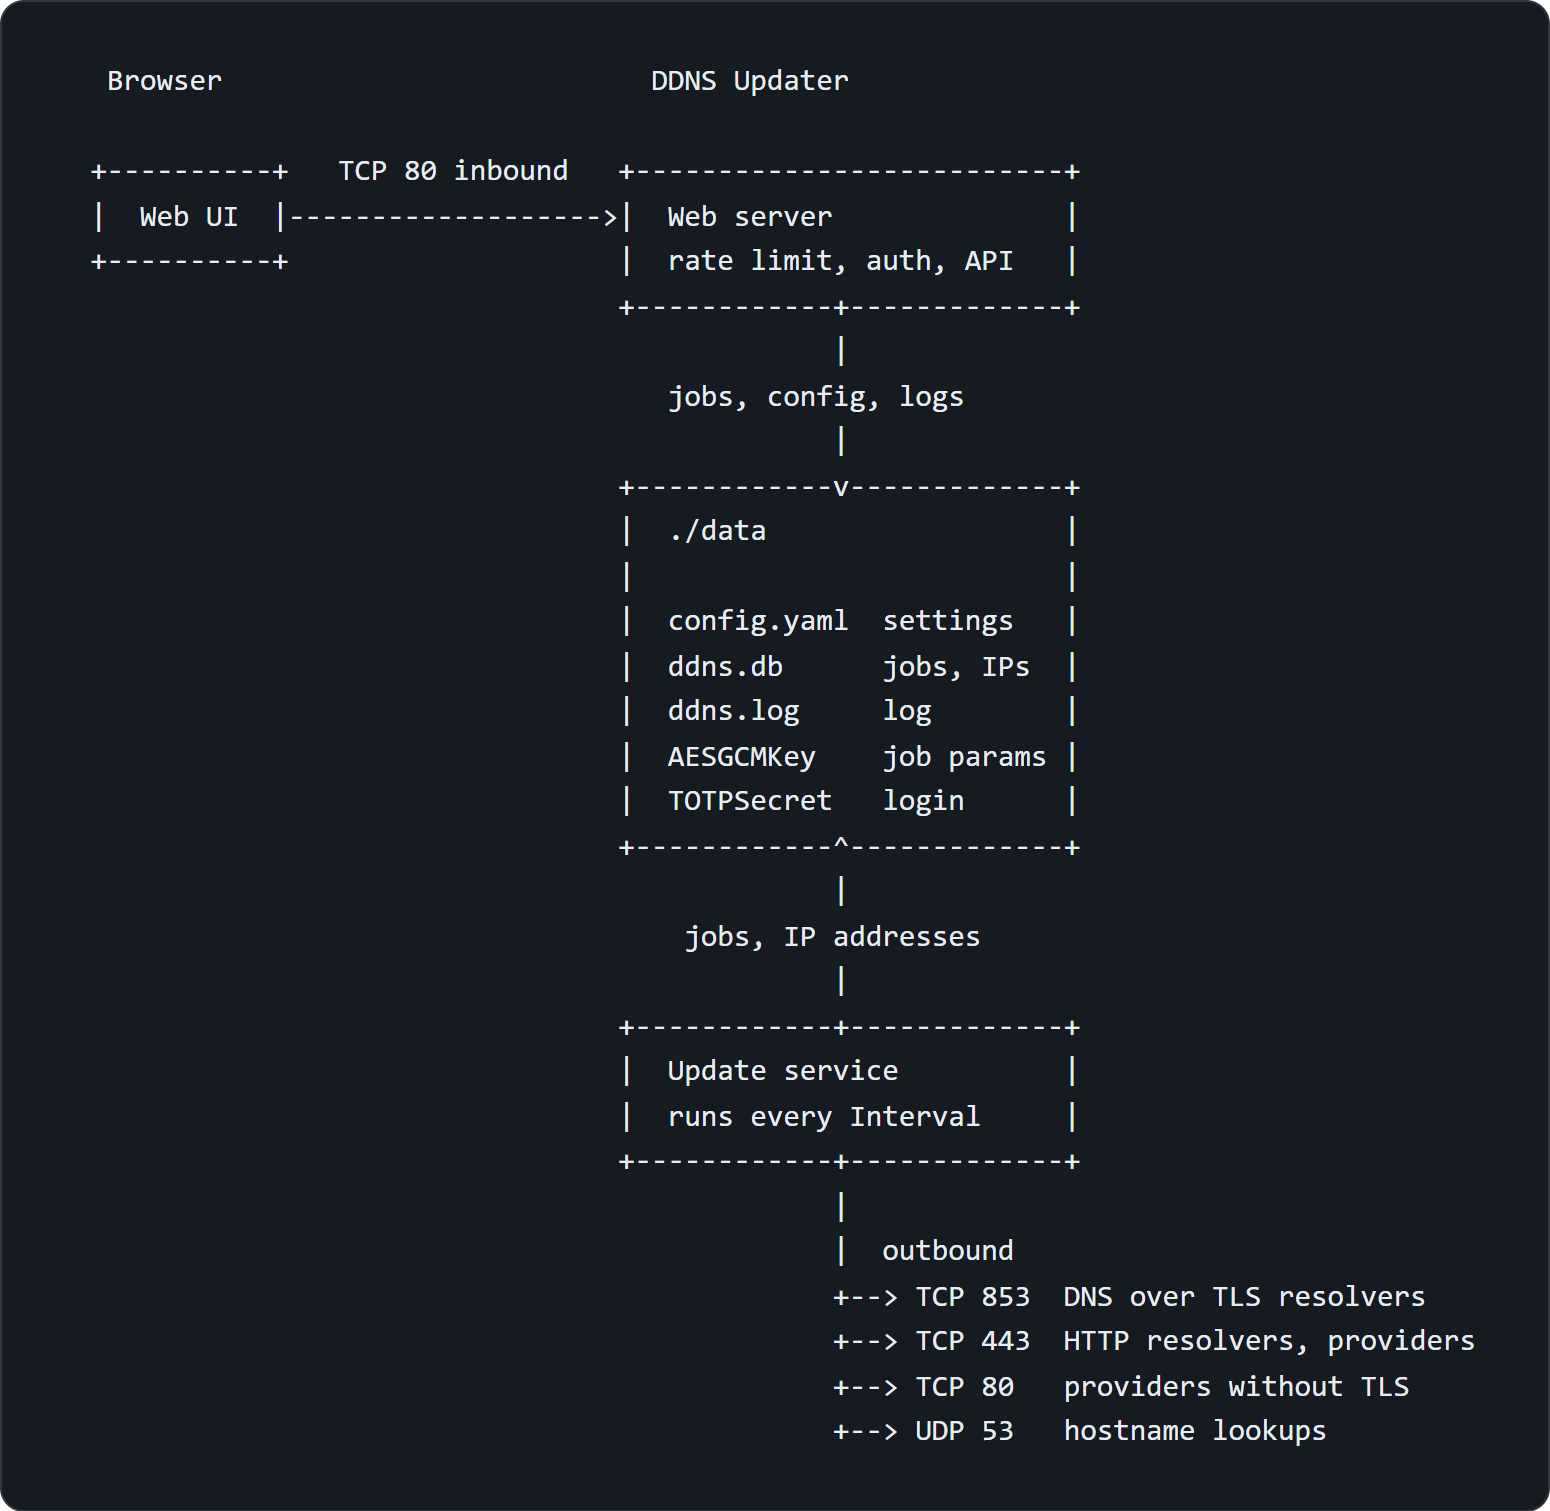
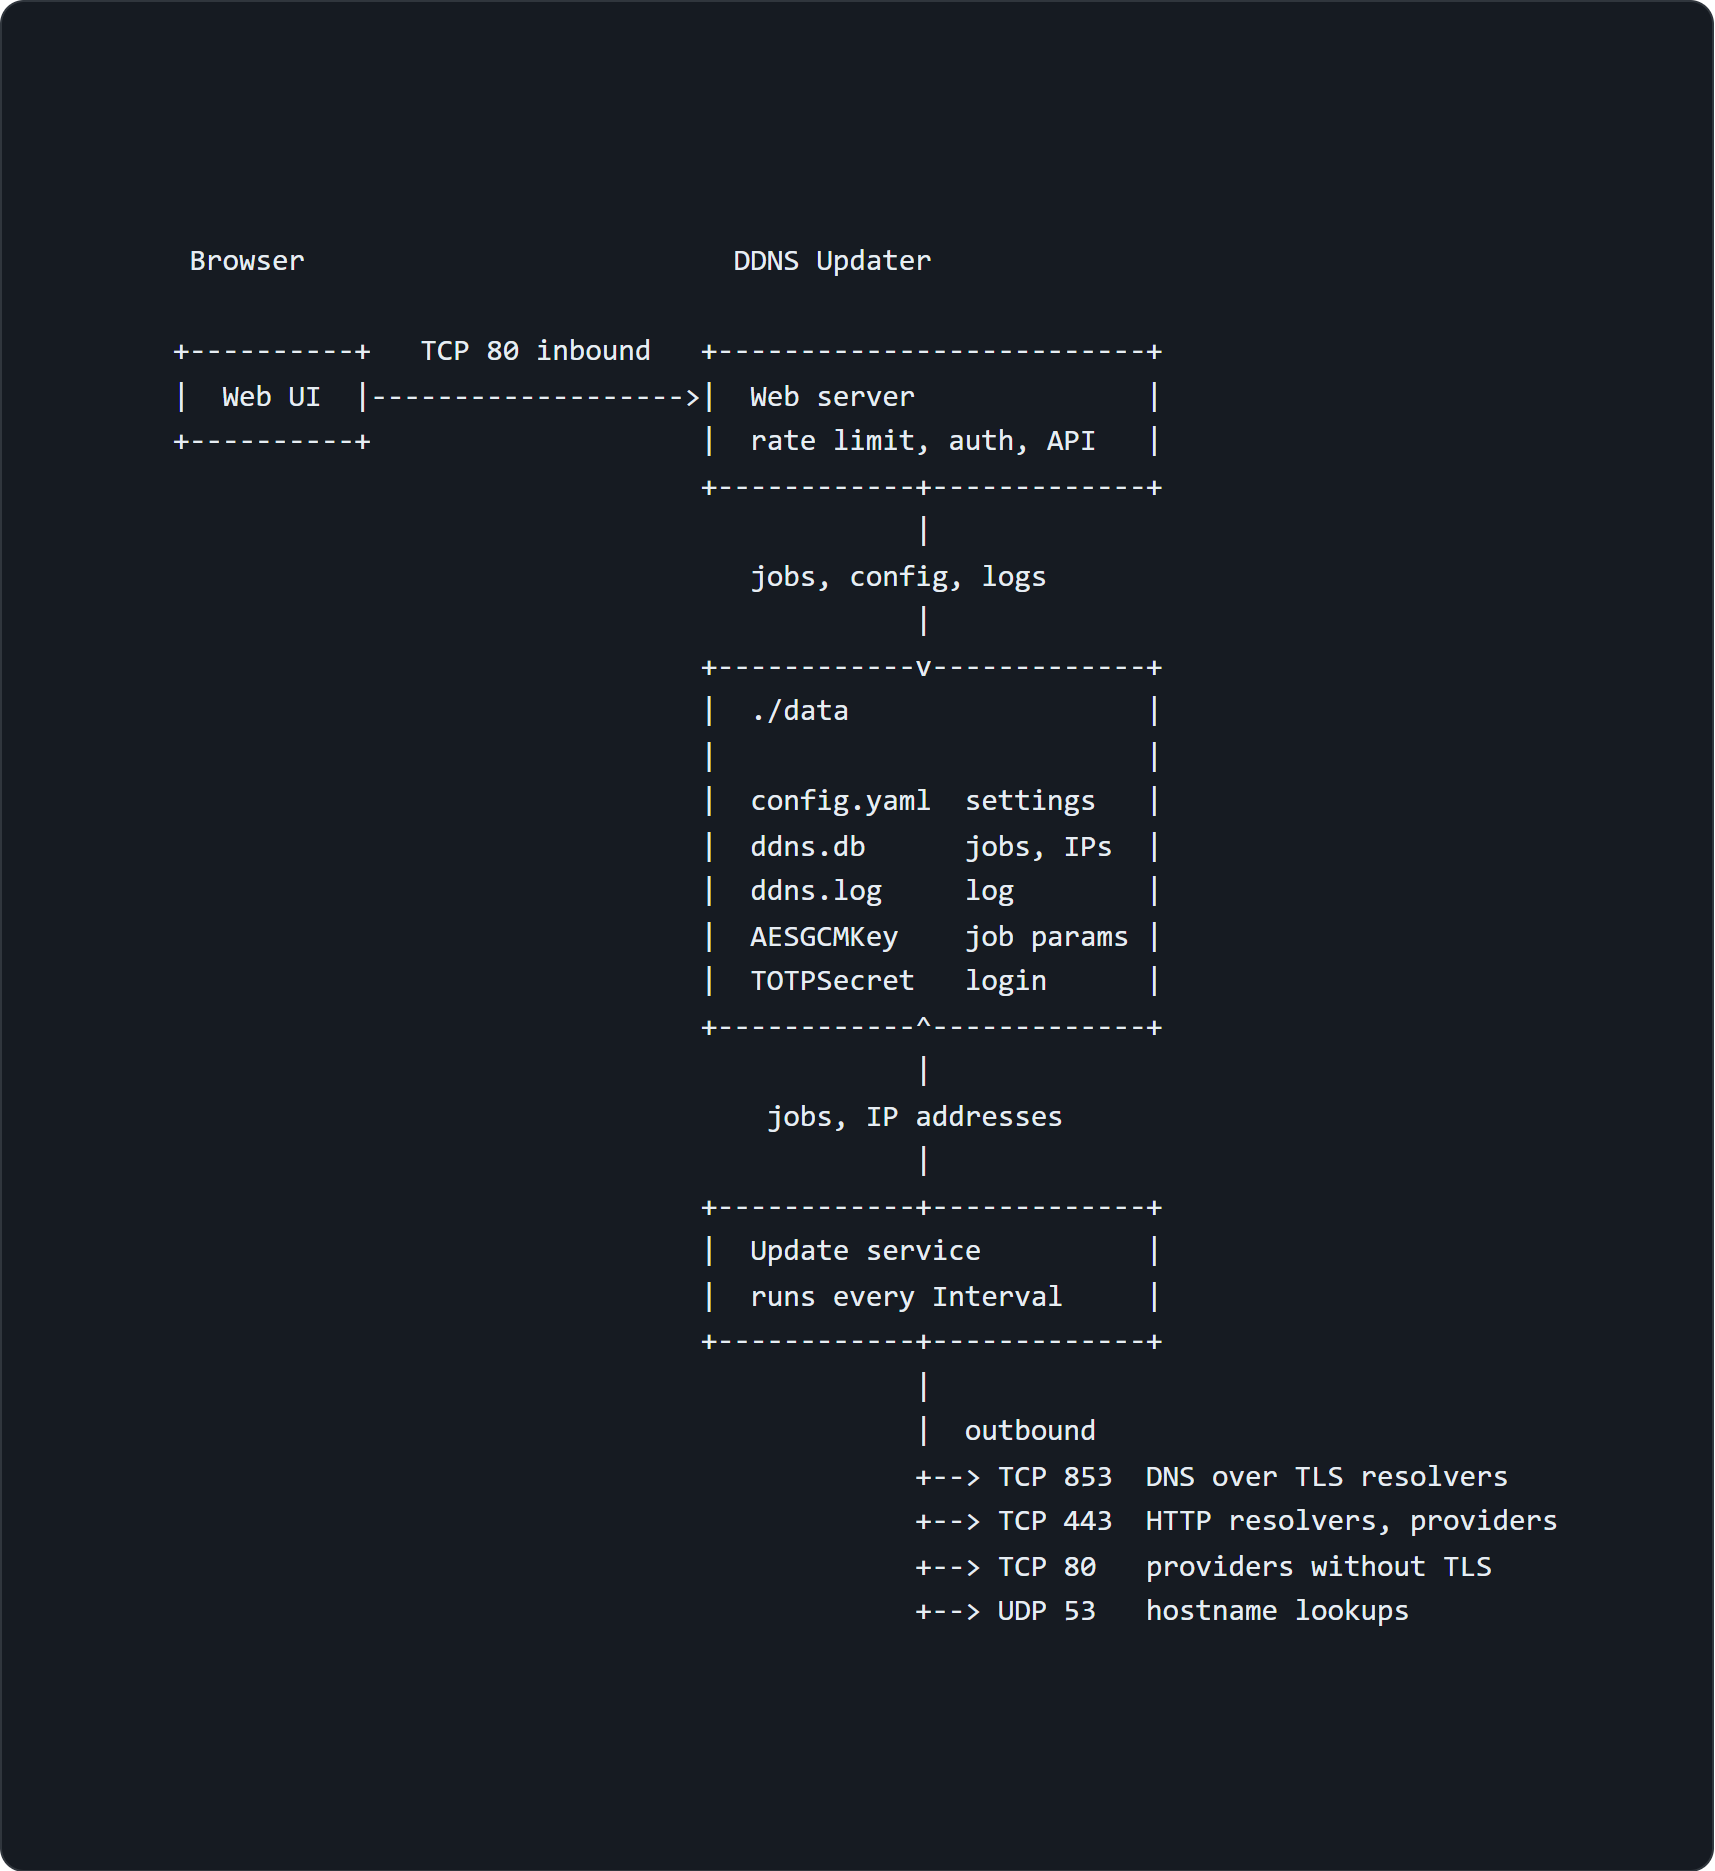
[UPD] README

diff --git a/README.md b/README.md
@@ -1,6 +1,6 @@
 # DDNS Updater
 
-> This project was originally designed and written by hand, long before AI assistants became part of everyday development.
+> This project was built before AI was a thing for me. Today it helps with troubleshooting and dependency updates. Whether that is a mark of quality or the opposite is up to you.
 
 [![License](https://img.shields.io/badge/License-BSD_3--Clause-blue.svg)](https://opensource.org/licenses/BSD-3-Clause)
 [![Release](https://img.shields.io/badge/Calver-YY.WW.REVISION-22bfda.svg)](https://calver.org/)
@@ -24,20 +24,16 @@ Update jobs and settings are managed in a web interface, so there is no need to 
 
 ## Features
 
-- Web interface to create, edit and delete update jobs
-- Optional login protected by TOTP
-- Job parameters are stored encrypted, passwords and tokens are masked in the interface
-- Scheduled update service that only contacts a provider when the IP address has changed
-- Public IP address via Cloudflare DNS over TLS, with HTTP resolvers as fallback or a resolver of your own
-- Log view in the browser
+- Web interface for jobs, settings and logs
+- Optional TOTP login and encrypted job parameters
+- Updates only when the IP address has changed
 - Runs as Docker container, standalone application or Windows service
-- Custom update URL for providers that are not supported out of the box
 
 ## Supported providers
 
 `Aliyun` `DD24` `DDNSS` `Dynu` `Hetzner` `INWX` `Infomaniak` `IONOS` `MaxiHoster` `NoIP` `Strato`
 
-If your provider is missing, open an issue and it will be added.
+> If your provider is missing, open an issue and it will be added.
 
 ### Custom provider
 
@@ -196,30 +192,28 @@ The diagrams below show how DDNS Updater works internally and which connections 
 
 ### Overview and network
 
-DDNS Updater accepts connections on the web interface port and only opens outbound connections for the update service.
-
 <picture>
   <source media="(prefers-color-scheme: dark)" srcset=".github/assets/overview-dark.png">
-  <img src=".github/assets/overview-light.png" width="775" alt="Overview of the components, the data directory and the required network connections">
+  <img src=".github/assets/overview-light.png" width="857" alt="Overview of the components, the data directory and the required network connections">
 </picture>
 
 ### Update cycle
 
 <picture>
   <source media="(prefers-color-scheme: dark)" srcset=".github/assets/update-dark.png">
-  <img src=".github/assets/update-light.png" width="619" alt="Flow of a scheduled update run">
+  <img src=".github/assets/update-light.png" width="857" alt="Flow of a scheduled update run">
 </picture>
 
 ### IP address resolution
 
 <picture>
   <source media="(prefers-color-scheme: dark)" srcset=".github/assets/resolver-dark.png">
-  <img src=".github/assets/resolver-light.png" width="643" alt="Order in which the resolvers are queried">
+  <img src=".github/assets/resolver-light.png" width="857" alt="Order in which the resolvers are queried">
 </picture>
 
 ### Requests and login
 
 <picture>
   <source media="(prefers-color-scheme: dark)" srcset=".github/assets/request-dark.png">
-  <img src=".github/assets/request-light.png" width="701" alt="Handling of incoming requests and the TOTP login">
+  <img src=".github/assets/request-light.png" width="857" alt="Handling of incoming requests and the TOTP login">
 </picture>
